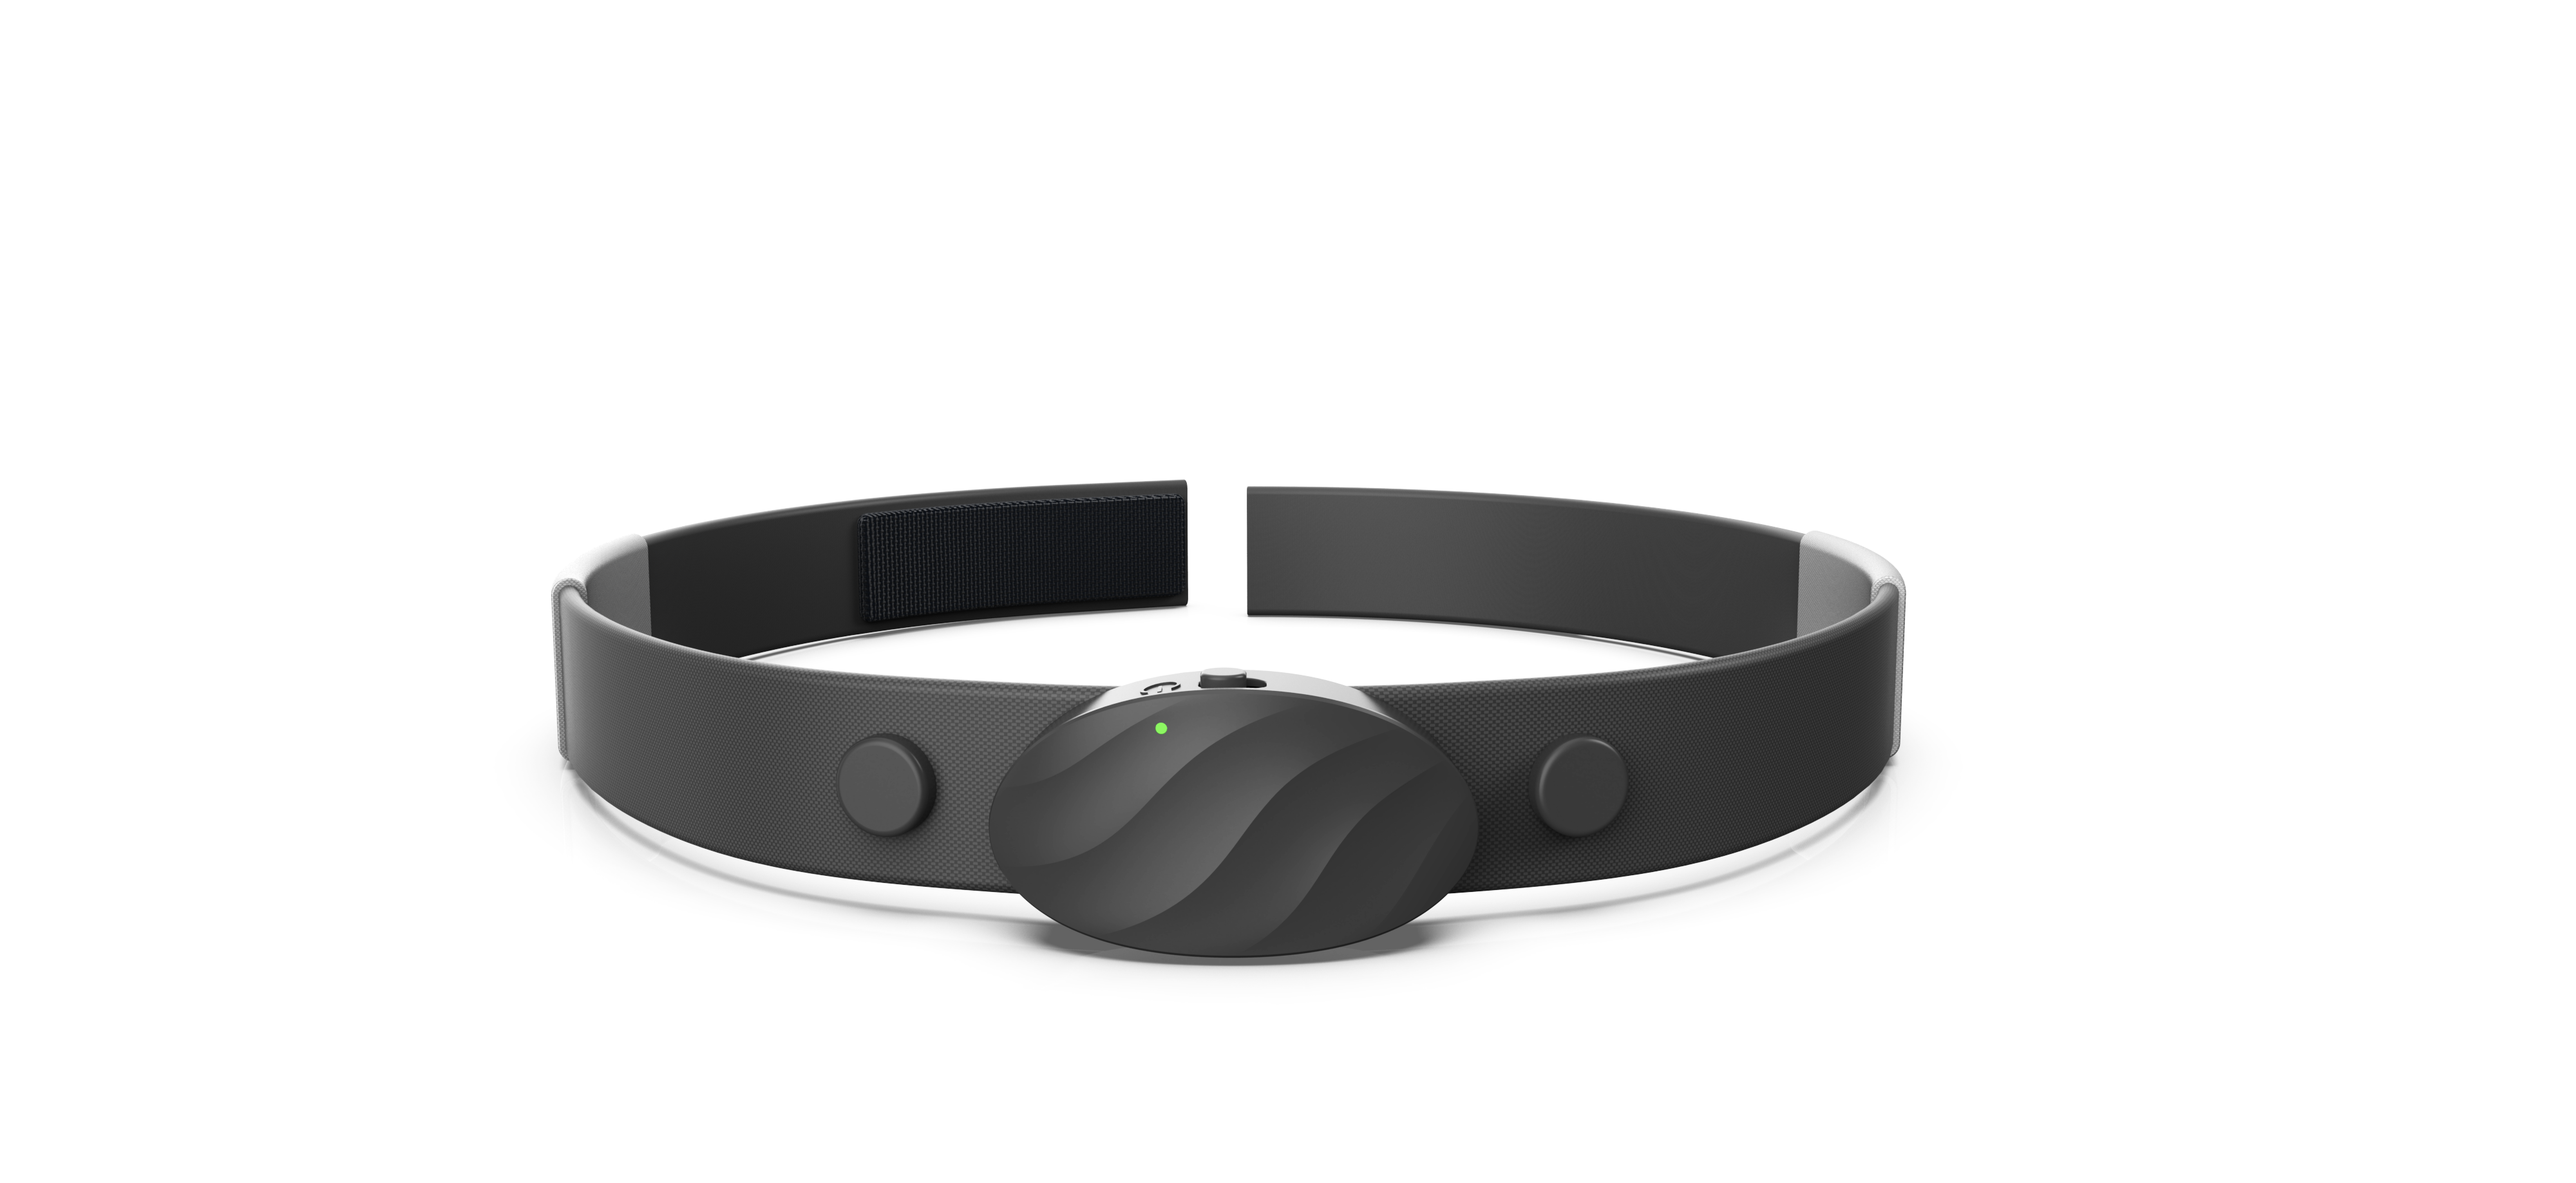
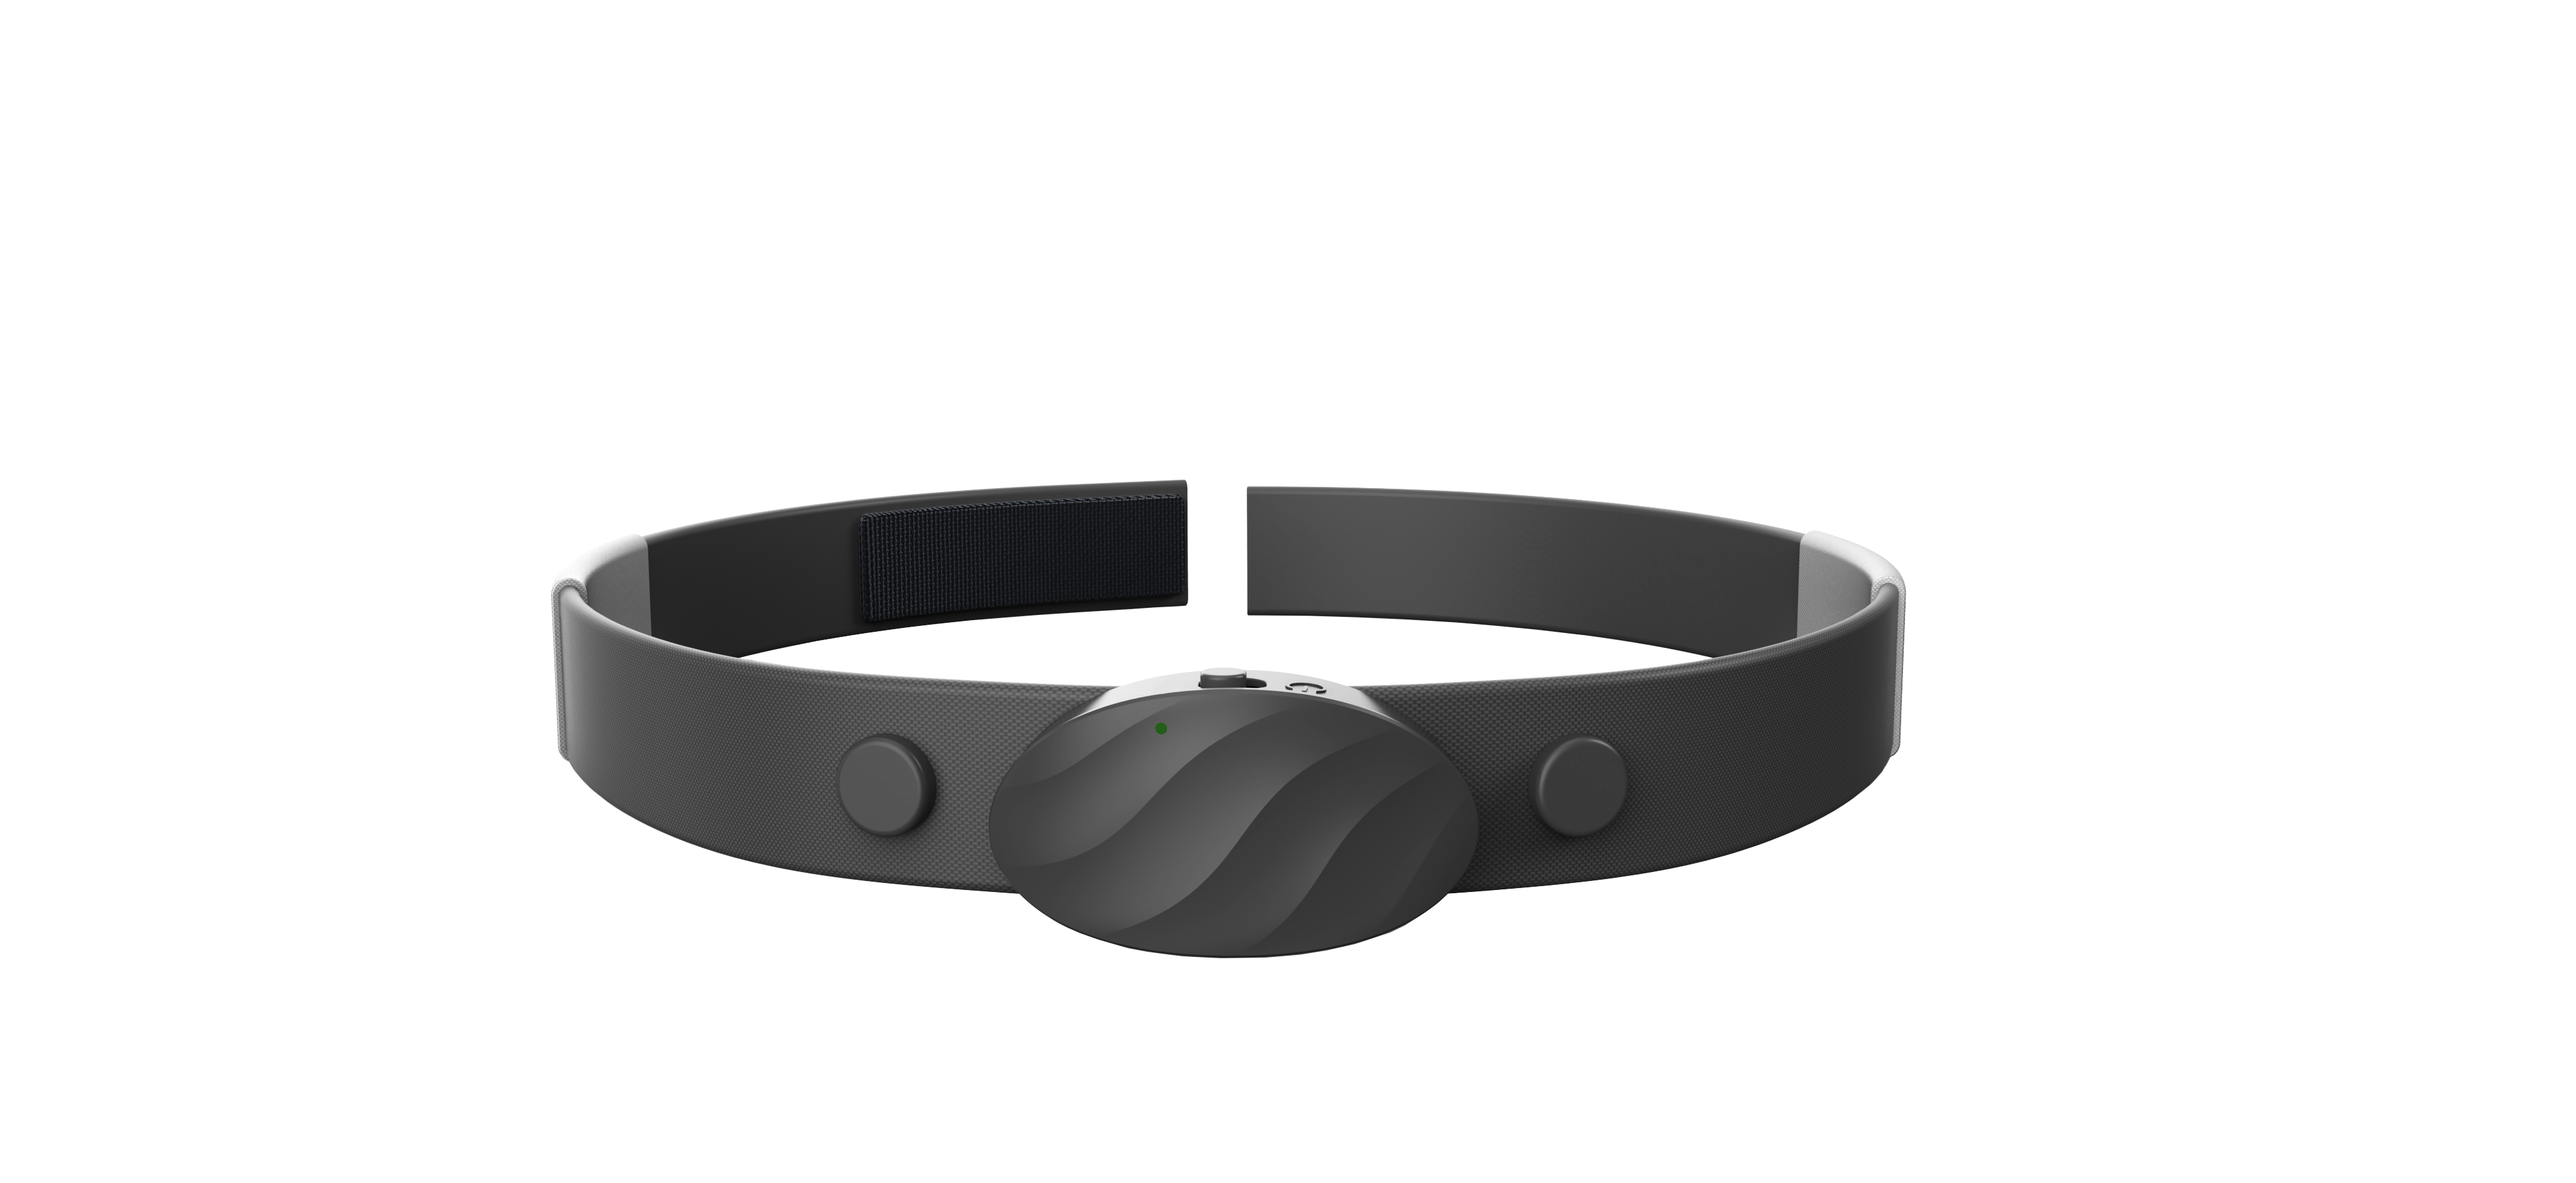
Replaced old headband images with new (switch position updated)

diff --git a/headband.html b/headband.html
@@ -603,7 +603,7 @@
                                                  
                                                          <h1 class="font_7" style="text-align:center; line-height:1.35em;"><span class="color_11">Wireless Headband</span></h1> 
                                                       
-                                                               <img style="height: 400; margin-left: auto; margin-right: auto; display: block;" data-type="image" itemprop="image" src="./img/headband.png"> 
+                                                               <img style="height: 400; margin-left: auto; margin-right: auto; display: block;" data-type="image" itemprop="image" src="./img/headband_zs.png"> 
 
                                                       <div class="color_11 font_9" style="text-align: center;">Easy to wear & comfortable for a whole night’s sleep</div> 
                                              </div>
